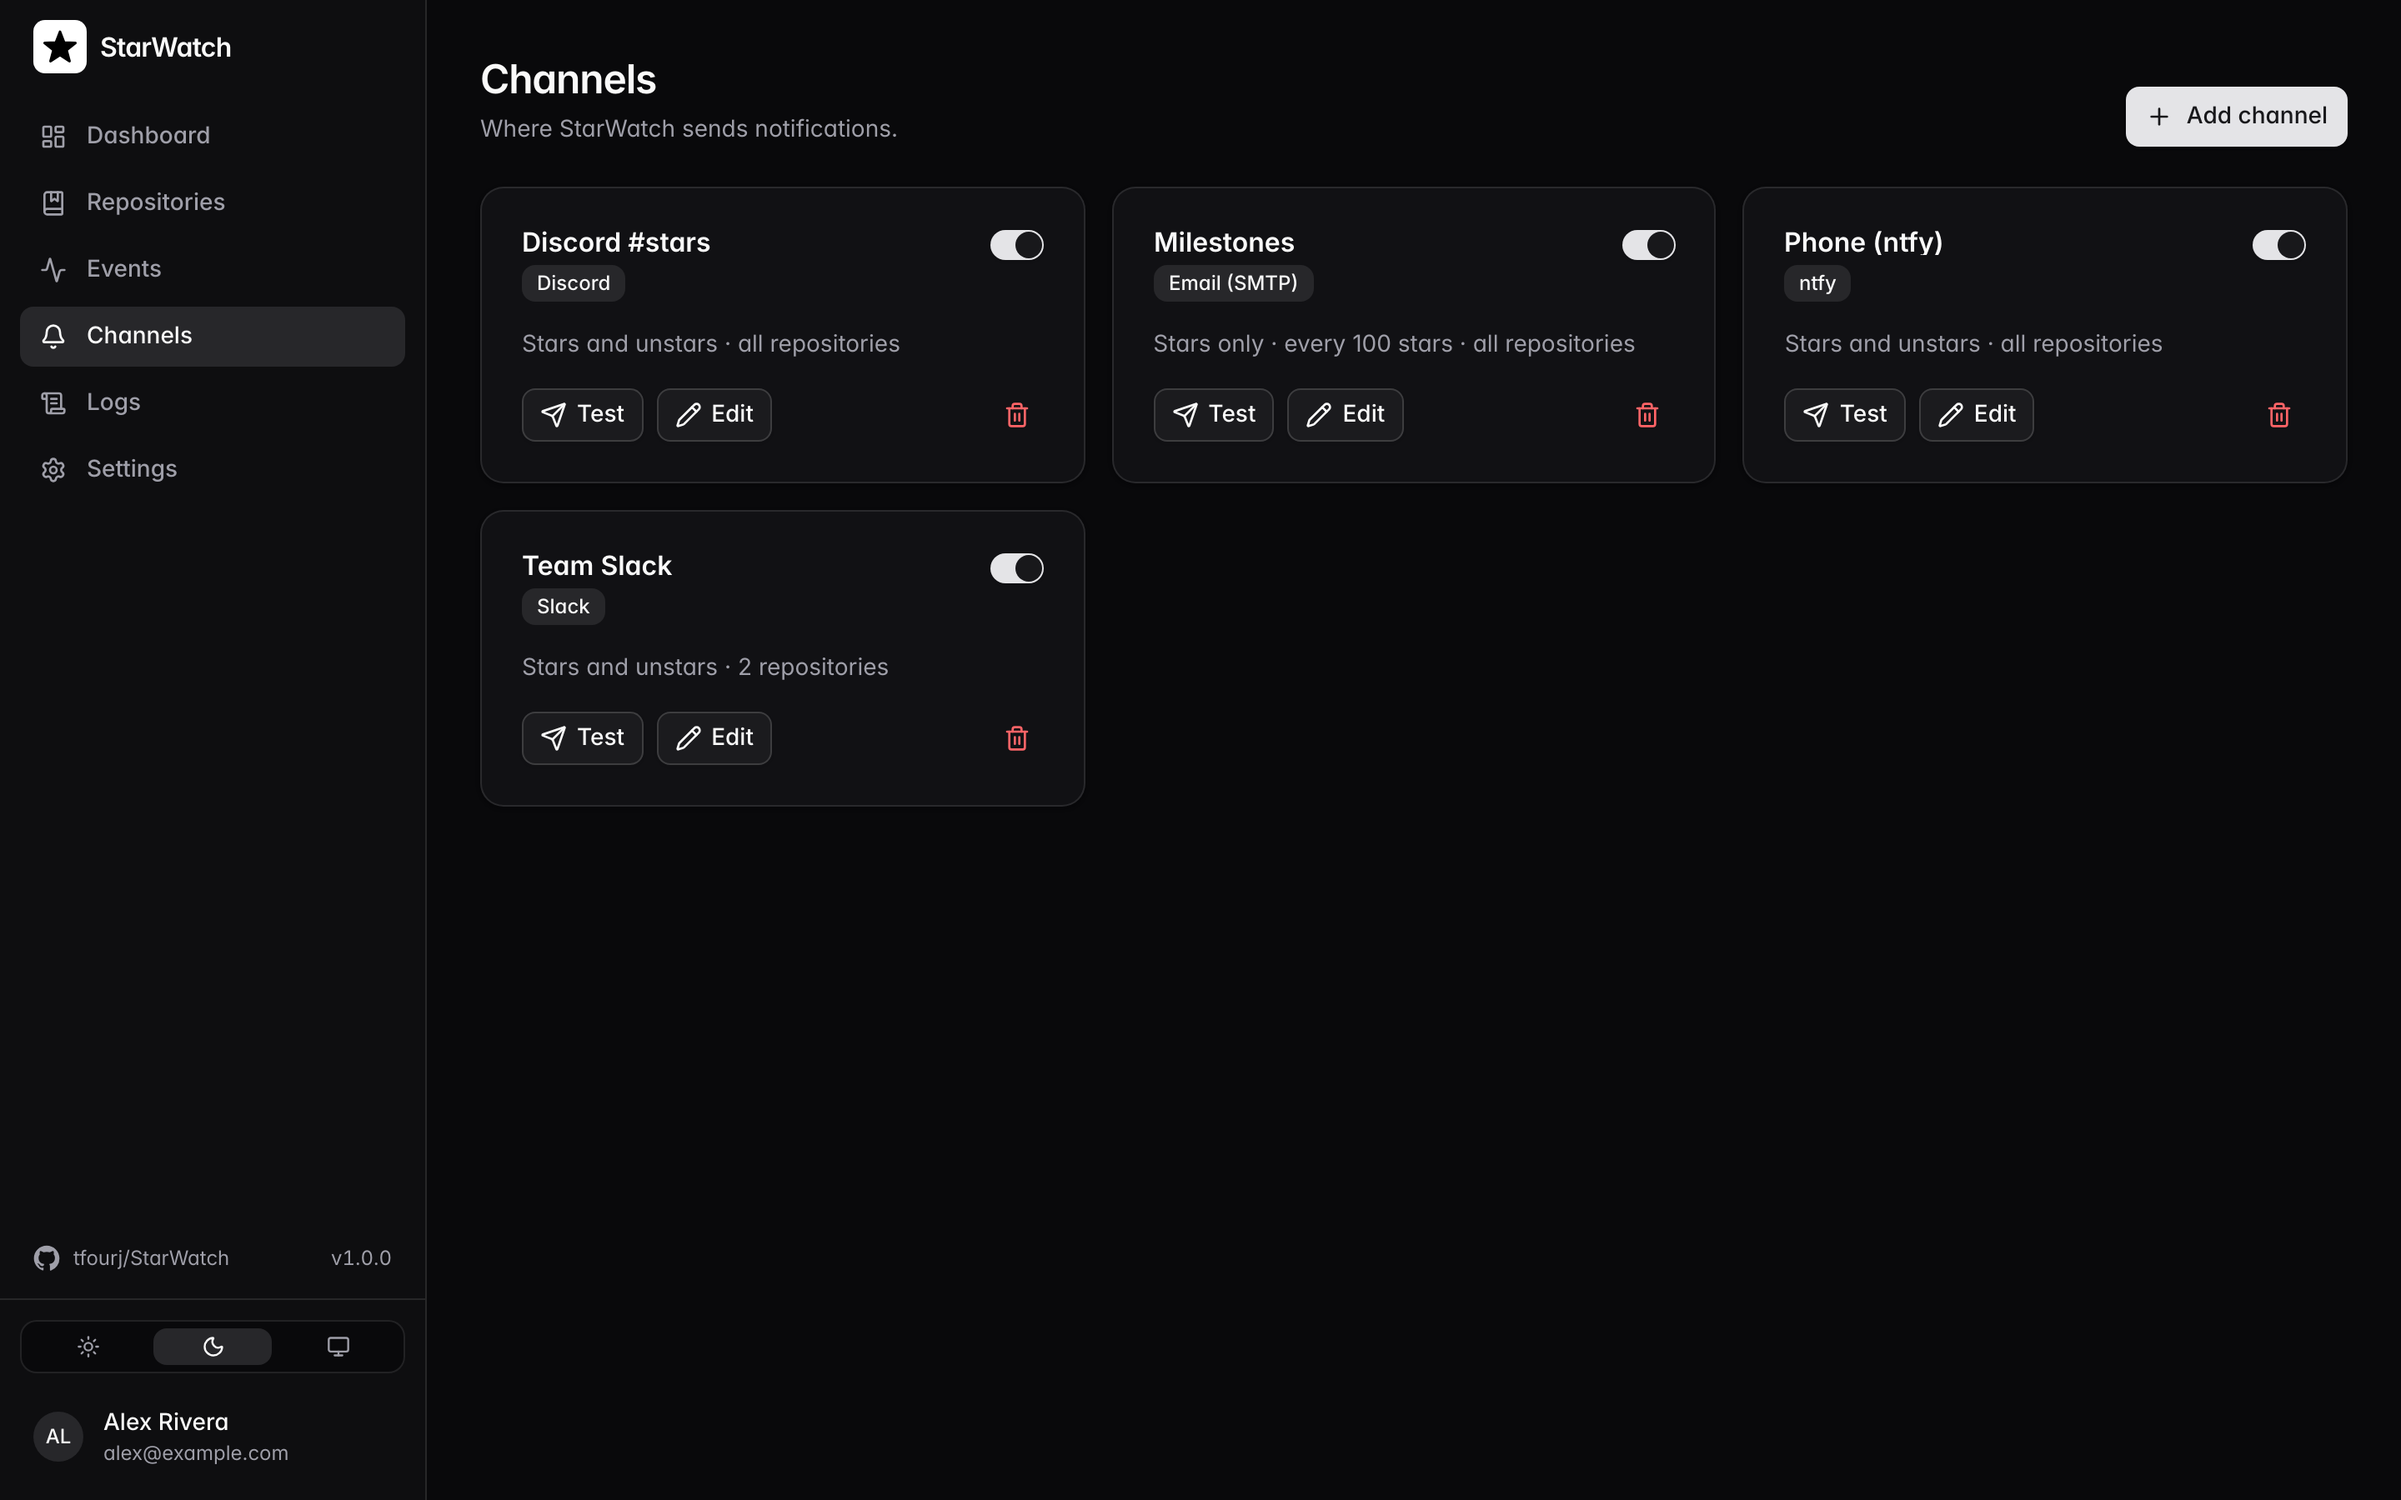
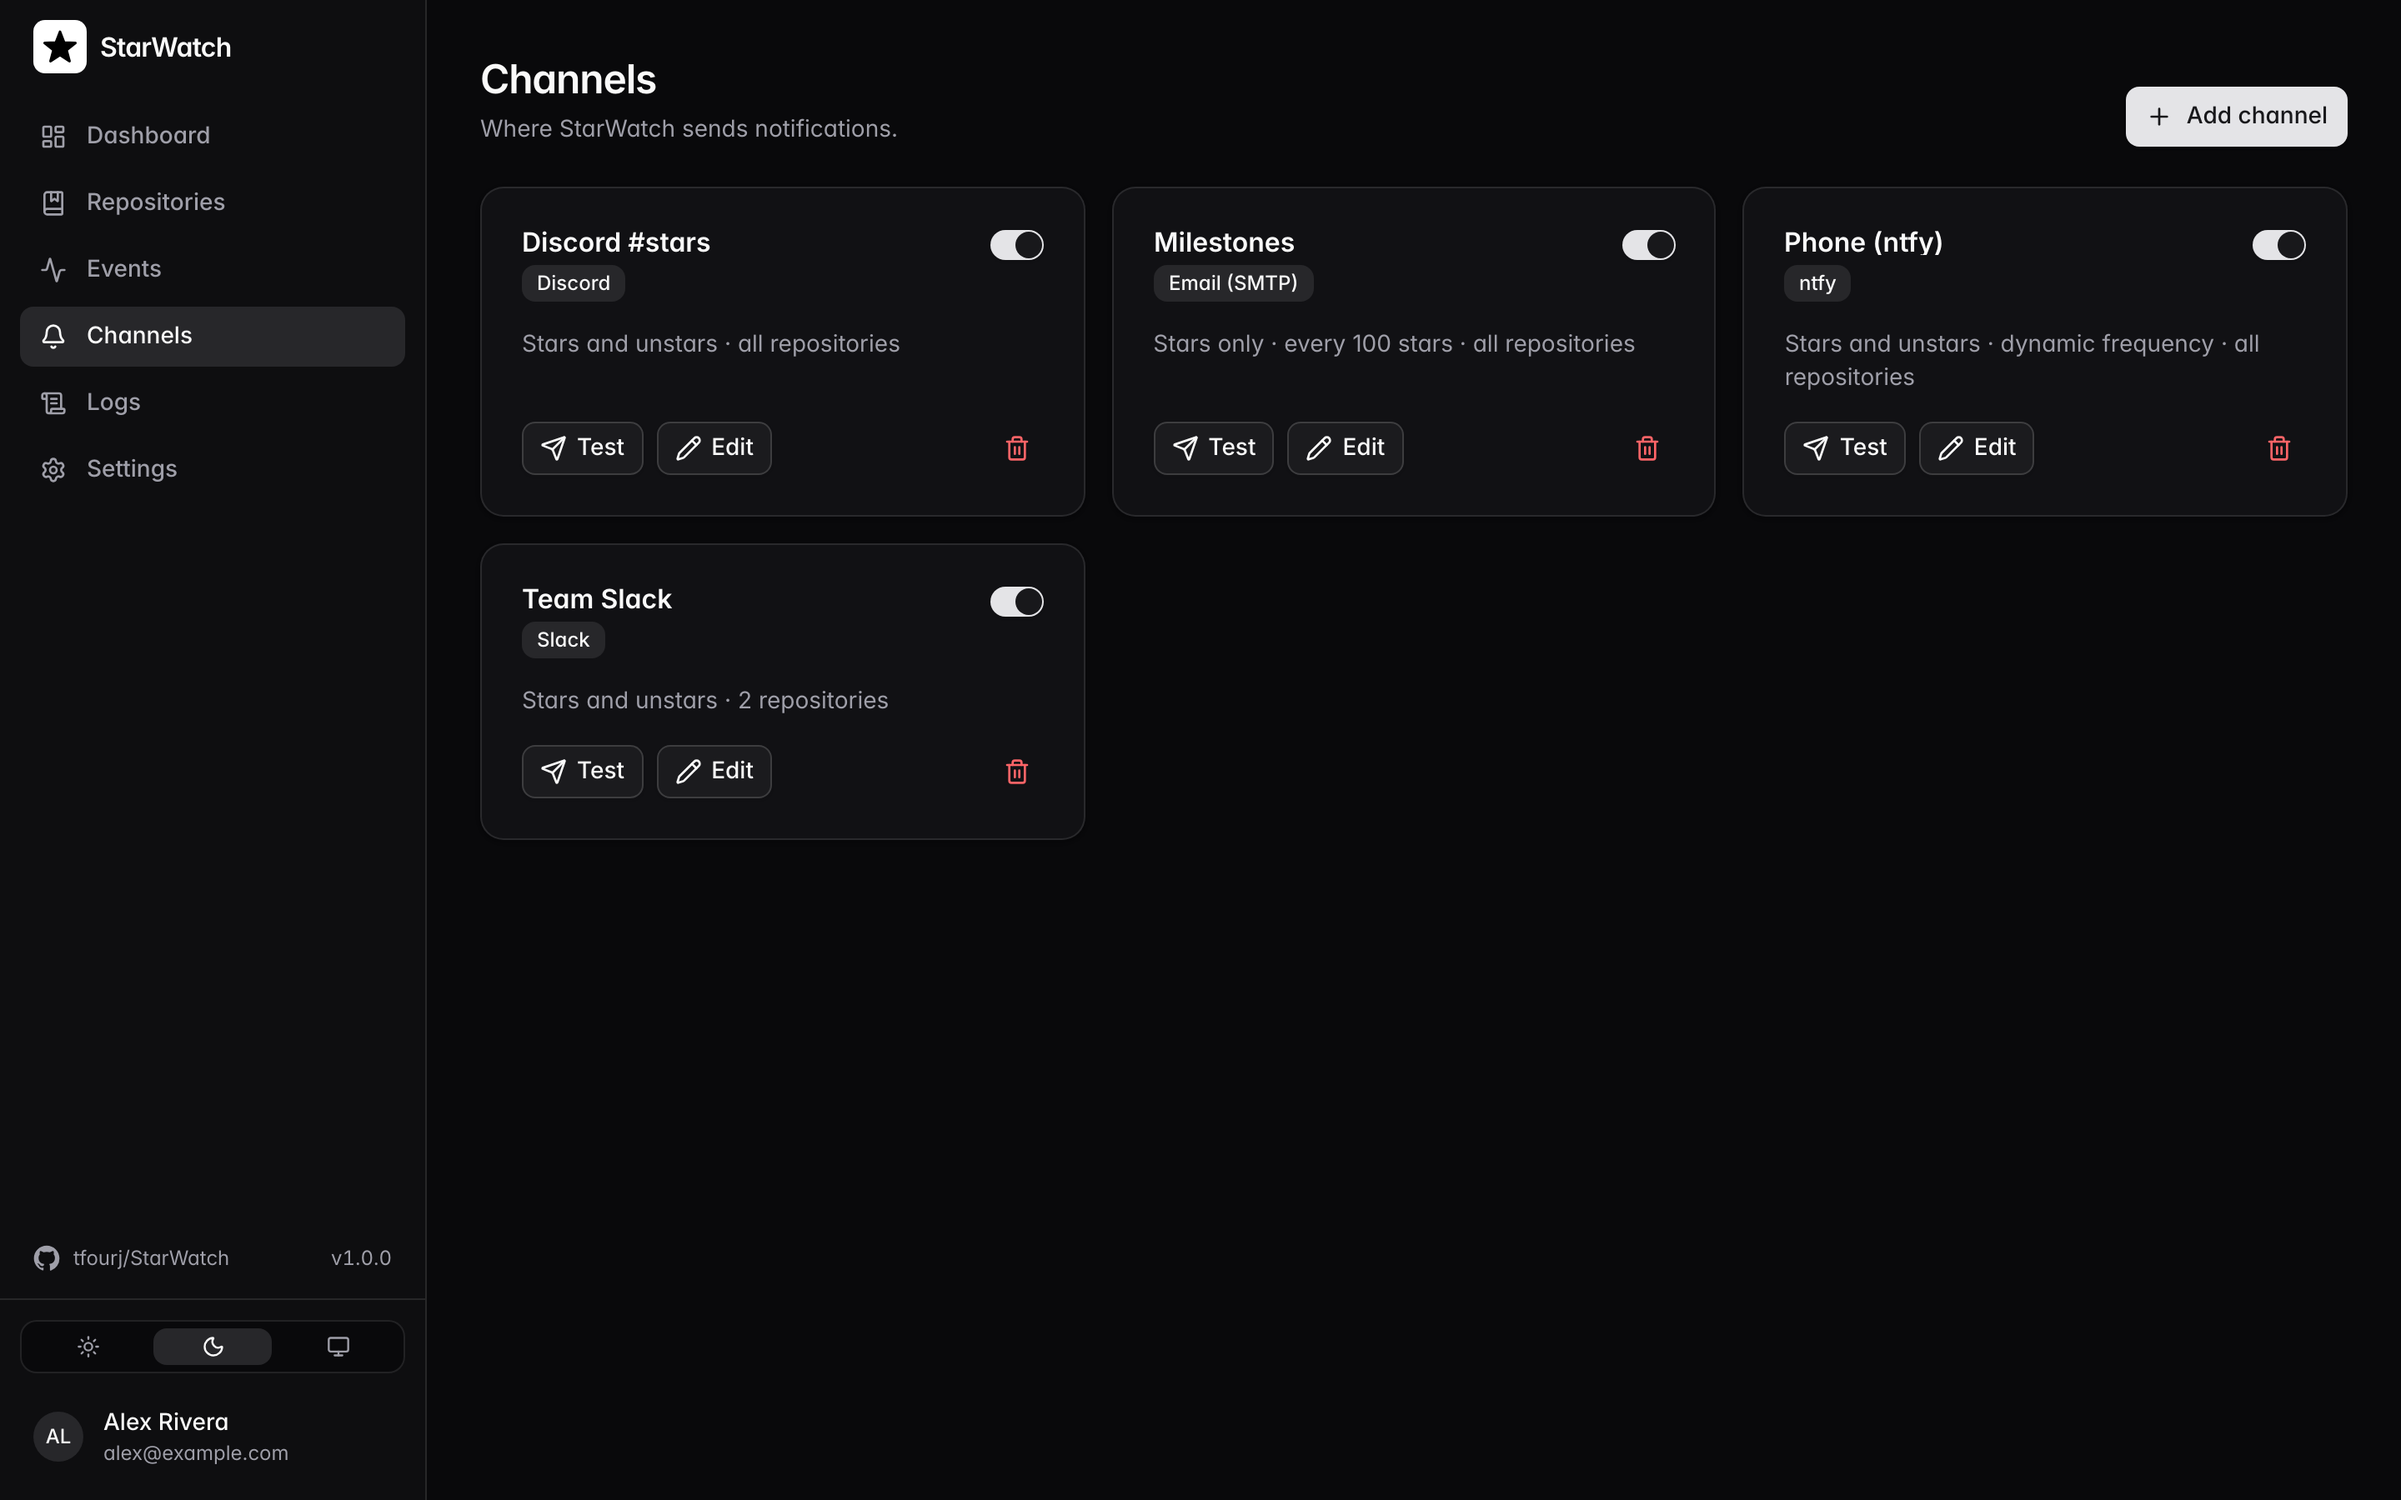
refresh screenshots

diff --git a/scripts/screenshots/shoot.js b/scripts/screenshots/shoot.js
@@ -31,7 +31,16 @@ const SHOTS = [
   const page = await browser.newPage();
   await page.setViewport({ width: 1440, height: 900, deviceScaleFactor: 2 });
   await page.emulateMediaFeatures([{ name: "prefers-color-scheme", value: THEME }]);
-  await page.evaluateOnNewDocument((t) => localStorage.setItem("starwatch-theme", t), THEME);
+  // Mark the current version's release notes as seen so the "new" dot does not show.
+  const { version } = await (await fetch(`${BASE}/api/setup/status`)).json();
+  await page.evaluateOnNewDocument(
+    (theme, seen) => {
+      localStorage.setItem("starwatch-theme", theme);
+      localStorage.setItem("starwatch-seen-version", seen);
+    },
+    THEME,
+    version,
+  );
   await page.setCookie(...cookies);
 
   for (const s of SHOTS) {
